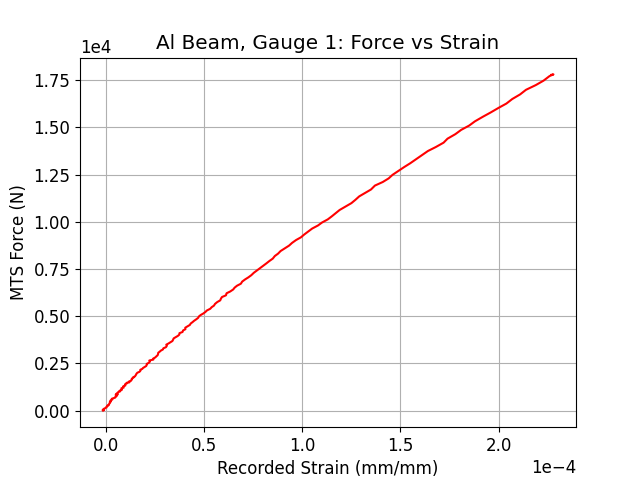
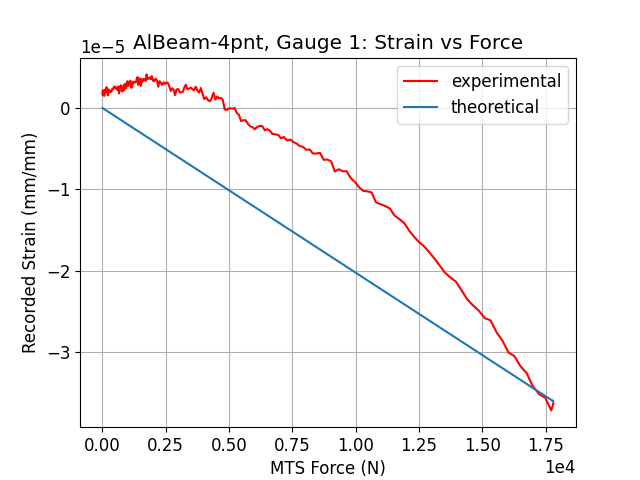
last changes

diff --git a/src/graphing.py b/src/graphing.py
@@ -25,8 +25,19 @@ def StrainGraph(data: pd.DataFrame, test: str, save: bool):
     save : bool
         save graphs or not
     '''
+    pos = [28,5,40,65]
+    I = 1457918.40
+    E = 72000 
+    ind = [3, 1, 2, 4]  # for correcting the sequence
 
-    for n in range(1,5):
+        # 1-->3
+        # 2-->1
+        # 3-->2
+        # 4-->4
+    
+    for n in range(0,4):
+
+        i = ind[n]
 
         params = {'mathtext.default': 'regular' }          
         plt.rcParams.update(params)
@@ -34,22 +45,28 @@ def StrainGraph(data: pd.DataFrame, test: str, save: bool):
             
         print(" Generating " + test + " strain plots..")
 
-        strain = -(data[f'SG{n}'])
+        strain = (data[f'SG{n+1}'])
         force = -(data.MTS_F)
+        num = 2 if test.endswith('3pnt') else 4
+        e_xx_theor = -1*force*170*pos[n]/(num*E*I)
 
-        plt.plot(strain, force, color = 'r')
+        plt.plot(force, strain, color = 'r')
+        plt.plot(force, e_xx_theor)
 
         
-        plt.title(f'Al Beam, Gauge {n}: Force vs Strain')
-        plt.ylabel('MTS Force (N)')
-        plt.xlabel('Recorded Strain (mm/mm)')
+        plt.title(f'{test}, Gauge {i}: Strain vs Force')
+        plt.legend(['experimental','theoretical'])
+        plt.xlabel('MTS Force (N)')
+        plt.ylabel('Recorded Strain (mm/mm)')
+        # plt.gca().set_xlim(0, f_lim)
+        # plt.gca().set_ylim(5, 0)  
         plt.ticklabel_format(axis='x', scilimits=[-3, 3])
         plt.ticklabel_format(axis='y', scilimits=[-3, 3])
         plt.grid()
 
         if save:
             os.makedirs(f'results/{test}-graphs/', exist_ok=True)
-            plt.savefig(f'results/{test}-graphs/SG{n}_strain.png')
+            plt.savefig(f'results/{test}-graphs/SG{i}_strain.png')
         plt.show()
         plt.clf()
     
@@ -86,9 +103,9 @@ def DisplacementGraph(data: pd.DataFrame, test: str, save: bool):
         
         disp = -(data[s])
 
-        if s == 'Actual_LD':
+        if s == 'MTS_d':
             if test == 'AlBeam-3pnt':
-                disp = disp - disp[100]
+                disp = disp - disp[65]
             elif test == 'AlBeam-4pnt':
                 disp = disp - disp[0]
             else:

diff --git a/src/main.py b/src/main.py
@@ -14,7 +14,6 @@ import os
 
 # Custom Functions/libraies
 from graphing import *
-from analysis import *
 
 # DEFINITIONS
 ########################
@@ -22,7 +21,7 @@ from analysis import *
 skip_rows = 22
 cols = ['time', 'MTS_F', 'MTS_d', 'LD', 'SG1', 'SG2', 'SG3', 'SG4', 'Actual_LD', 'unk1', 'unk2']
 
-test = 'AlBeam-3pnt'
+test = 'AlBeam-4pnt'
 
 # for reading to pd df
 file_path = f"Data\Labview Data\{test}.txt"
@@ -71,7 +70,7 @@ eps3_xy = sig3_xy/E
 eps3_xy[:,200:-1] = -1*eps3_xy[:,200:-1]
 plt.contourf(xv, yv, eps3_xy, levels=50)
 
-plt.title(f'Al Beam: Transverse Strain in 3-point Bending')
+plt.title(f'Al Beam: Shear Strain in 3-point Bending')
 plt.ylabel('y (mm)')
 plt.xlabel('x (mm)')
 # plt.grid()
@@ -93,15 +92,15 @@ slope = M_max/(60)
 Ma = M_max - slope*(abs(x)-140)
 Mb = [M_max for i in range(0,281)]
 M4 = np.concatenate((Ma[0:60], Mb, Ma[0:60][::-1]), axis=0)
-sig4_xx = -M4*yv/I
+sig4_xx = -1*M4*yv/I
 eps4_xx = sig4_xx/E
 Q = b/2*(H**2/4 - yv**2)
 sig4_xy = max_F4/2 * Q/I/b
 eps4_xy = sig4_xy/E
-# eps4_xy[:,200:-1] = -1*eps4_xy[:,200:-1]
+eps4_xy[:,200:-1] = -1*eps4_xy[:,200:-1]
 plt.contourf(xv, yv, eps4_xy, levels=50)
 
-plt.title(f'Al Beam: Transverse Strain in 4-point Bending')
+plt.title(f'Al Beam: Shear Strain in 4-point Bending')
 plt.ylabel('y (mm)')
 plt.xlabel('x (mm)')
 # plt.grid()
@@ -127,9 +126,9 @@ print("=========================================")
 
 save = True
 # StrainGraph(parsed_data, test_num, sensor, modulus, yield_strength, ultimate_strength, save)
-# if test.startswith('AlB'):
-#     StrainGraph(raw_data, test, save)
-DisplacementGraph(raw_data, test, save)
+if test.startswith('AlB'):
+    StrainGraph(raw_data, test, save)
+DisplacementGraph(raw_data, test, False)
 print("=========================================")
 
 # print("Saving Data CSVs...")
